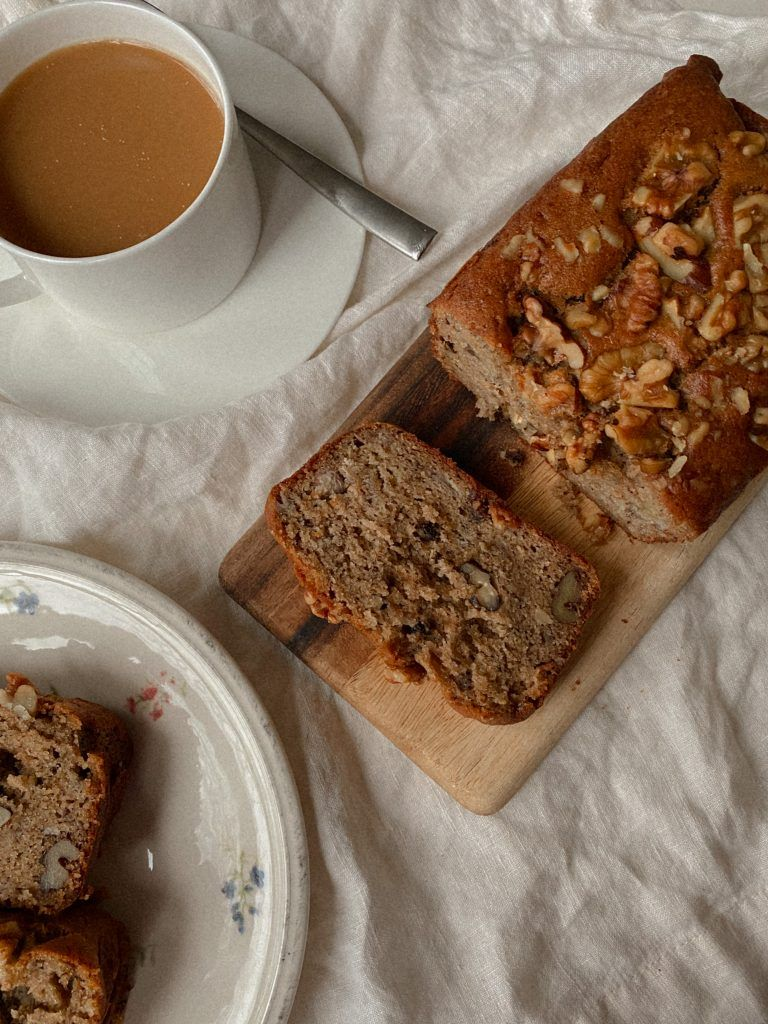
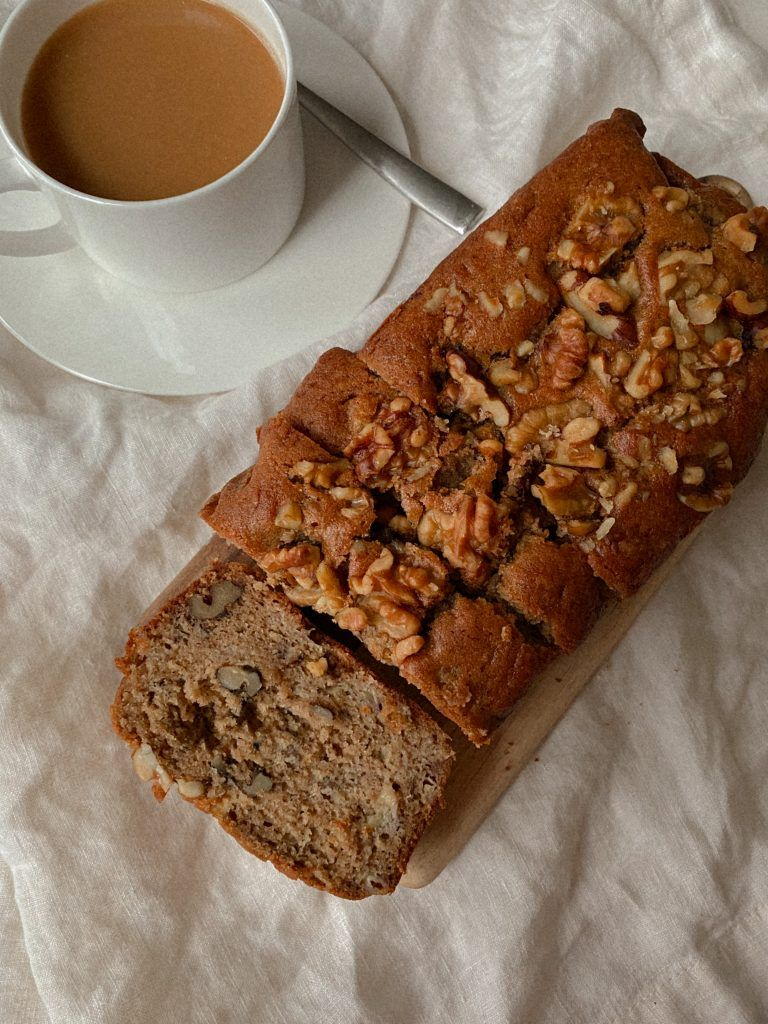
Add further details to alt text

diff --git a/recipes/bananabread.html b/recipes/bananabread.html
@@ -7,7 +7,8 @@
 
     <body>
         <h1>Banana Bread</h1>
-        <img src="../images/bananabread.jpg" alt="A moist, nutritious, and delicious banana bread loaf.">
+        <img src="../images/bananabread.jpg" alt="A moist, nutritious, and delicious banana bread loaf with 
+        chopped walnuts and a cup of coffee.">
     </body>
 
     <body>
